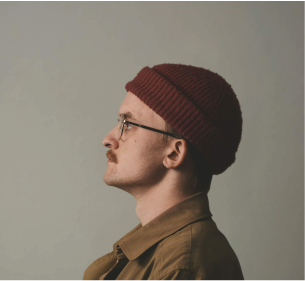
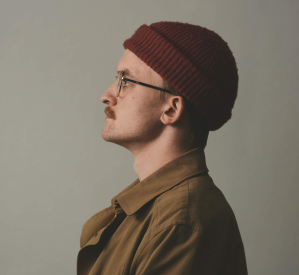
about page - small layout changes

Changed region(s): [[0.0, 0.0, 1.0, 1.0]]

diff --git a/style.css b/style.css
@@ -950,9 +950,13 @@ footer ul.ig {
     }
 
     .about_text {
-        margin-top: 50px;
+        margin-top: 8vmin;
         grid-column: 2;
         grid-row: 2 / 4;
+    }
+
+    .about_heading{
+        text-align: center;
     }
 
     p.gal_name {
@@ -996,7 +1000,8 @@ footer ul.ig {
     }
 
     .paragraph1 {
-        margin-top: 0;
+        margin-top: 8vmin;
+        grid-row: 3;
     }
 
     video {
@@ -1007,11 +1012,13 @@ footer ul.ig {
         grid-row: 4;
         margin-left: auto;
         margin-right: auto;
+        margin-top: 8vmin;
     }
 
     .about_img1 {
+        margin-top: 5vmin;
         grid-column: 1;
-        grid-row: 3;
+        grid-row: 2;
     }
 
     .about_img2 {
